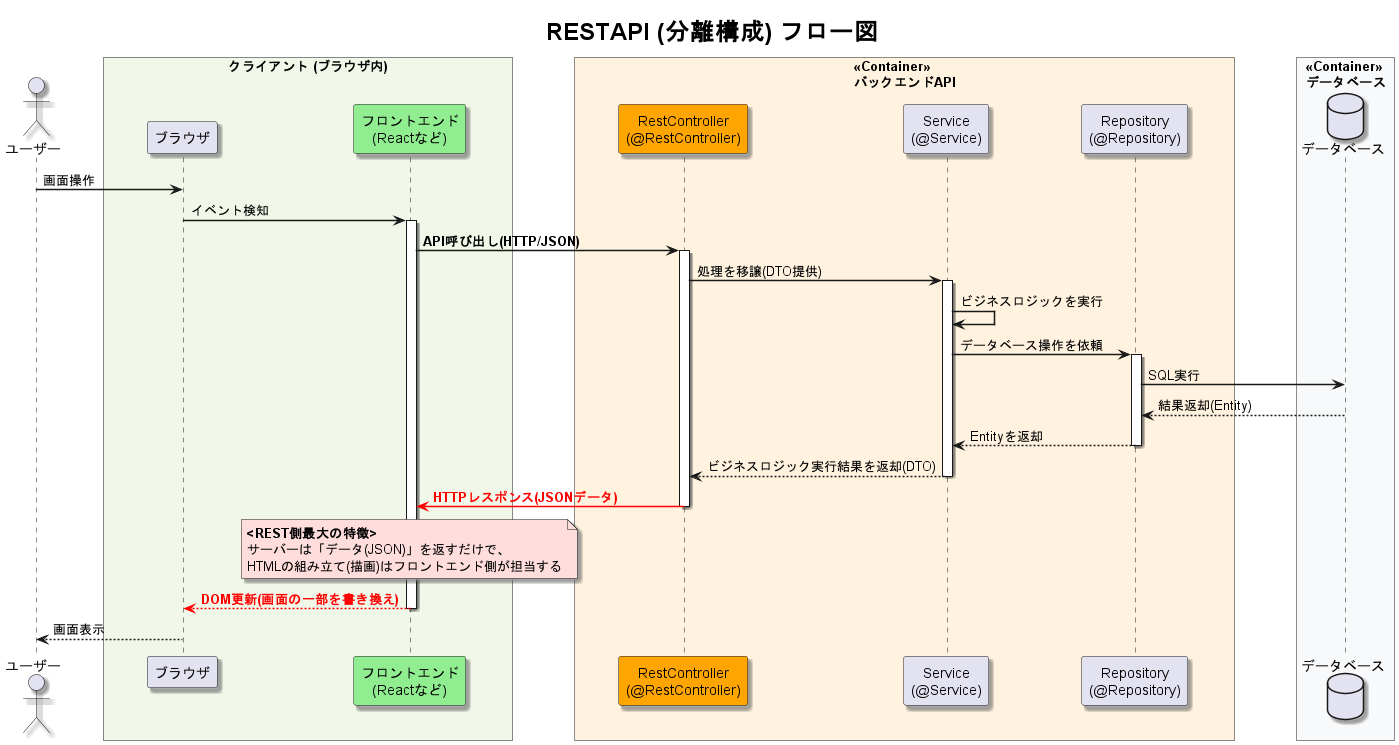
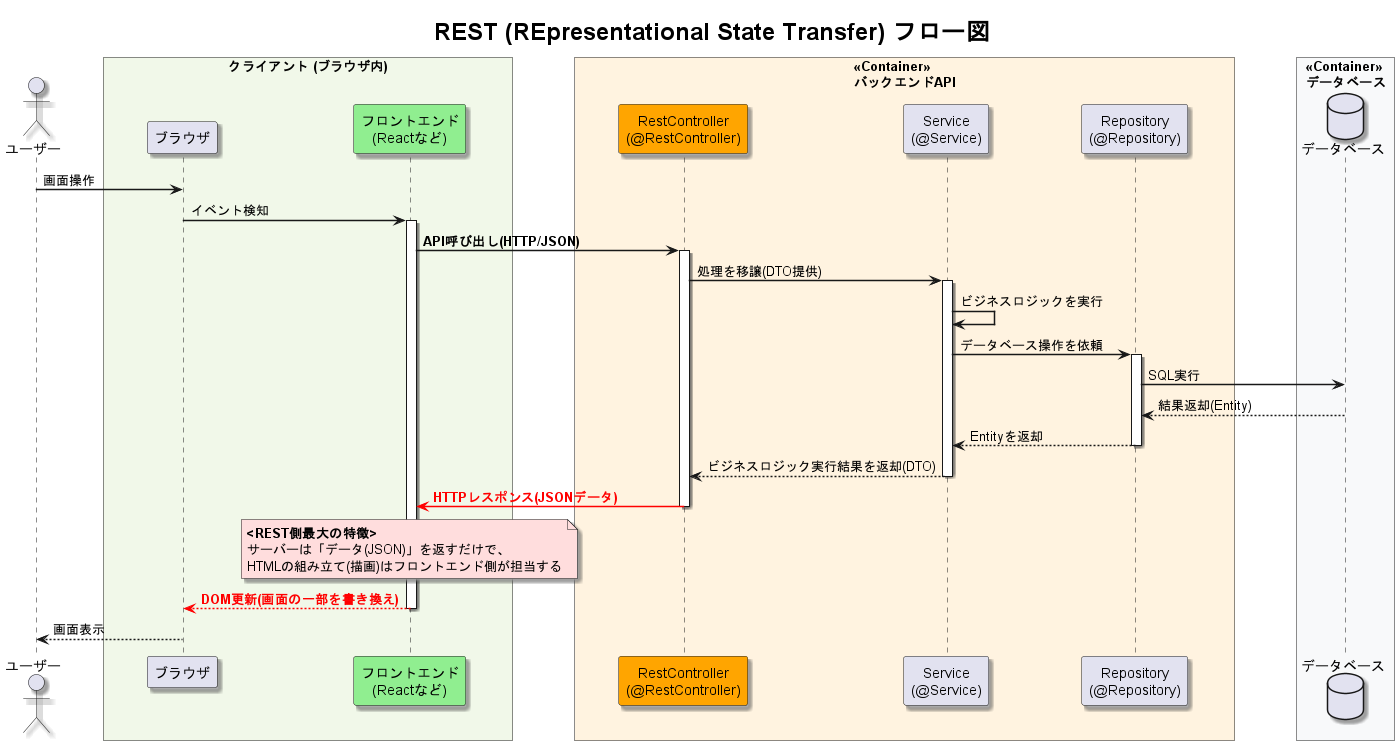
記事の表現修正 - "RESTAPI"から"REST"に変更

Changed region(s): [[0.3074, 0.0309, 0.7069, 0.0617]]

diff --git a/articles/understanding-ssr-vs-restapi.md b/articles/understanding-ssr-vs-restapi.md
@@ -1,5 +1,5 @@
 ---
-title: "【C4モデル図解】SSRとRESTAPIの構造的違い"
+title: "【C4モデル図解】SSRとRESTの構造的違い"
 emoji: "🔥"
 type: "tech" # tech: 技術記事 / idea: アイデア
 topics: [structurizr, plantuml, spring, ssr, restapi]
@@ -9,11 +9,11 @@ published: true
 ## はじめに
 どーもKyoyaです。JVMの学習をして記事出したいんですけど、しばらく厳しいですね。。。
 
-今のバックエンドの研修を進める中で、今まで作っていた「画面付きのSpring Bootアプリ」と、新しく登場した「REST API」の違いに戸惑いました。
+今のバックエンドの研修を進める中で、今まで作っていた「画面付きのSpring Bootアプリ」と、新しく登場した「RESTAPI」の違いに戸惑いました。
 
 「Thymeleafで画面を作らなくなったのは分かるけど、システム全体の構造として何がどう変わったの？」
 
-このモヤモヤを解消するために、ソフトウェアアーキテクチャを図解する**C4モデル**を使って、今までの構成（SSR）と新しい構成（RESTAPI）の構造的な違いを可視化してみました。
+このモヤモヤを解消するために、ソフトウェアアーキテクチャを図解する**C4モデル**を使って、今までの構成（SSR）と新しい構成（REST）の構造的な違いを可視化してみました。
 
 ## 1. Container図（システム構成の違い）
 まずはC4モデルの「レベル2：コンテナ図」を使って、システム全体のハコ（実行環境）がどう変わったかを見てみます。
@@ -25,11 +25,11 @@ published: true
 これまでは、SpringBootという1つの大きなハコの中で「画面描画処理（HTML生成）」と「データ処理（ビジネスロジック）」の両方を担っていました。
 ブラウザからのリクエストに対して、サーバーが完成した画面(HTML)を返却する構造です。
 
-### RESTAPI（今回の構成）
+### REST（今回の構成）
 
 ![](/images/understanding-ssr-vs-restapi/structurizr-RESTAPI-ContainerDiagram.png)
 
-一方RESTAPIでは、システムが「フロントエンド（Reactなど）」と「バックエンド（SpringBoot）」の2つのハコに完全に分離しています。
+一方RESTでは、システムが「フロントエンド（Reactなど）」と「バックエンド（SpringBoot）」の2つのハコに完全に分離しています。
 バックエンドは画面を作らず、フロントエンドからの要求に対して純粋なデータ(JSONなどなど)だけを返すことに徹しています。
 
 ## 2. Component図（Spring Boot内部の違い）
@@ -39,7 +39,7 @@ published: true
 
 ![](/images/understanding-ssr-vs-restapi/structurizr-SSR-ComponentDiagram.png)
 
-### RESTAPI（今回の構成）
+### REST（今回の構成）
 
 ![](/images/understanding-ssr-vs-restapi/structurizr-RESTAPI-ComponentDiagram.png)
 
@@ -51,14 +51,14 @@ published: true
 ### 変わった部分（Controller）
 一番の違いは「HTTPリクエストを受付する窓口」であるControllerです。
 * **SSR（`@Controller`）：** 処理の最後に「どの画面（View名）を表示するか」を返します。
-* **RESTAPI（`@RestController`）：** 処理の最後に「データそのもの（EntityやDTO）」を返し、裏側で自動的にJSON形式に変換されてフロントエンドへ送られます。
+* **REST（`@RestController`）：** 処理の最後に「データそのもの（EntityやDTO）」を返し、裏側で自動的にJSON形式に変換されてフロントエンドへ送られます。
 
 ## おわりに
-C4モデルで図解してみると、RESTAPIとは単なる技術名ではなく**フロントエンドとバックエンドの役割を分離し、JSONでやり取りするアーキテクチャ**であることが視覚的にスッキリ理解できました。
+C4モデルで図解してみると、RESTとは単なる技術名ではなく**フロントエンドとバックエンドの役割を分離し、JSONでやり取りするアーキテクチャ**であることが視覚的にスッキリ理解できました。
 
 システムの構造（上澄み）はこれで把握できましたが、では実際にフロントとバックを繋いでいる「HTTPリクエスト」のやり取りは、裏側でどう動いているのでしょうか？
 
-次の記事では、さらに解像度を上げて**UMLのシーケンス図**を使い、RESTAPIの通信の詳細について解剖してみたいと思います！
+次の記事では、さらに解像度を上げて**UMLのシーケンス図**を使い、RESTの通信の詳細について解剖してみたいと思います！
 
 最後まで読んでいただきありがとうございました！
 
